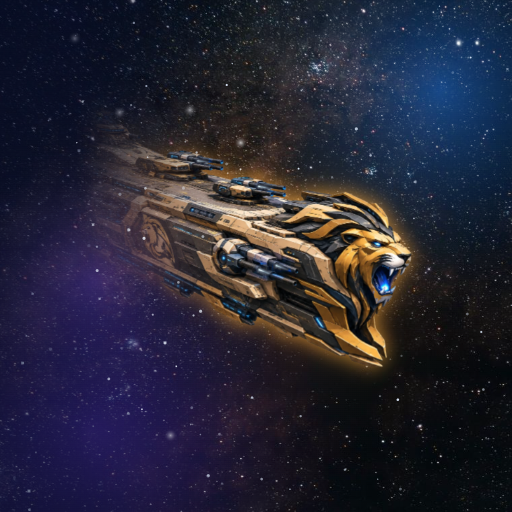
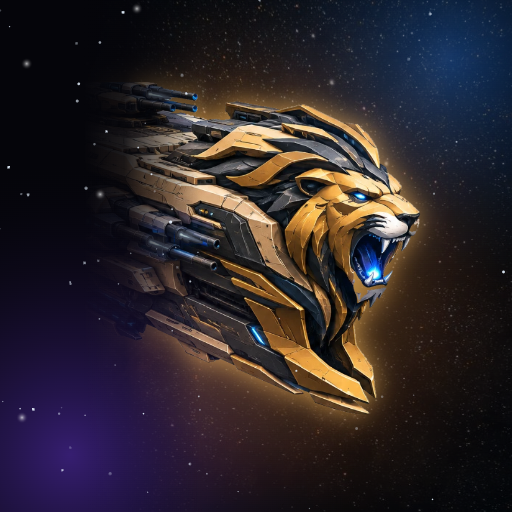
앱 아이콘: 처음 라이온하트 아이콘을 유지하고 잘린 왼쪽 몸통만 우주 안개로 덮음

diff --git a/index.html b/index.html
@@ -4,7 +4,7 @@
   <meta charset="utf-8" />
   <meta name="viewport" content="width=device-width,initial-scale=1,viewport-fit=cover" />
   <title>전투 순양함</title>
-  <link rel="icon" type="image/png" href="icon-192.png?v=4" />
+  <link rel="icon" type="image/png" href="icon-192.png?v=5" />
   <style>
     :root{--bg:#071222;--panel:#102540;--line:#315b86;--cyan:#54e5ff;--gold:#ffd668;--danger:#ff647c;--muted:#9eb4cc}*{box-sizing:border-box}body{margin:0;background:#020712;color:#eff8ff;font-family:var(--font-body);display:grid;place-items:center;min-height:100vh}button{font:inherit;color:inherit;cursor:pointer}#app{width:min(100vw,480px);min-height:100vh;background:radial-gradient(circle at 77% 7%,#203e69 0,transparent 30%),linear-gradient(#0a1b32,#06111f);overflow:hidden;position:relative}.stars{position:absolute;inset:0;opacity:.5;background-image:radial-gradient(white 1px,transparent 1.4px),radial-gradient(#77d9ff 1px,transparent 1.4px);background-size:31px 37px,67px 71px;background-position:2px 9px,25px 41px;pointer-events:none}.screen{position:relative;min-height:100vh;padding:20px 16px 28px;display:none}.screen.active{display:block}.top{display:flex;justify-content:space-between;align-items:center}.brand{font-weight:900;letter-spacing:.08em;font-size:12px;color:var(--cyan)}h1{font-size:27px;line-height:1.05;margin:9px 0 3px}h2{font-size:18px;margin:0}.sub{font-size:12px;color:var(--muted)}.resources{display:flex;gap:7px}.resource{font-size:12px;background:#122a48;border:1px solid #35608d;border-radius:20px;padding:6px 9px;display:flex;align-items:center;gap:5px}.res-icon{width:15px;height:15px;display:inline-grid;place-items:center;font-size:11px}.gold-icon{border-radius:50%;background:radial-gradient(circle at 35% 28%,#fff4b8,#ffcf42 43%,#b86d0b 76%);border:1px solid #fff3a0;box-shadow:0 0 7px #ffc733}.thorium-icon{clip-path:polygon(50% 0,86% 25%,72% 82%,50% 100%,25% 80%,13% 27%);background:linear-gradient(135deg,#d5fbff,#48e6ff 47%,#7965ff);box-shadow:0 0 8px #65ebff}.commander{width:74px;height:74px;border-radius:50%;overflow:hidden;border:3px solid #a7f7ff;box-shadow:0 0 0 3px #5066ce,0 6px 18px #0008;position:relative;background:radial-gradient(circle at 50% 25%,#ffe0bb 0 17%,transparent 18%),radial-gradient(ellipse at 50% 65%,#6997ff 0 26%,#28386f 27% 48%,transparent 49%),linear-gradient(145deg,#3b5ea3,#152346)}.commander::before{content:"";position:absolute;top:11px;left:21px;width:32px;height:31px;border-radius:48% 48% 45% 45%;background:#ffd4aa;box-shadow:0 -10px 0 -1px #293762}.commander::after{content:"★";position:absolute;right:0;bottom:0;width:23px;height:23px;display:grid;place-items:center;background:#ffca4c;color:#593209;border-radius:50%;font-size:13px;border:1px solid #fff0ac}.hero{margin:19px 0 19px;padding:20px;border:1px solid #3d6d9b;border-radius:18px;background:linear-gradient(130deg,#183c61b8,#0c1b34c4);box-shadow:0 16px 40px #0008;min-height:190px}.app-icon{float:right;width:120px;height:120px;margin:-8px -6px 7px 12px;border:4px solid #b8f8ff;border-radius:32px;overflow:hidden;background:linear-gradient(145deg,#4874dc,#172a64);box-shadow:0 0 0 4px #ffdf78,0 12px 24px #001529;position:relative;transform:rotate(5deg)}.app-icon::before{content:"✦";position:absolute;z-index:2;right:7px;top:3px;color:#fff5b1;font-size:25px;text-shadow:0 0 8px #fff}.app-icon::after{content:"♥";position:absolute;z-index:2;left:8px;bottom:4px;color:#ff8eae;font-size:20px;text-shadow:0 0 8px #ffcfdb}.app-icon img{width:220px;height:120px;max-width:none;object-fit:cover;object-position:35% 49%;transform:translateX(-49px) scale(1.06);filter:saturate(1.12) brightness(1.12)}.hero p{max-width:245px;color:#c6d8e8;font-size:13px;line-height:1.55;margin:11px 0}.primary{border:0;border-radius:11px;padding:12px 17px;font-weight:800;background:linear-gradient(90deg,#37cee9,#5b83ff);box-shadow:0 5px 18px #3dd8ff4d}.section-head{display:flex;justify-content:space-between;align-items:center;margin:20px 0 10px}.cards{display:flex;gap:10px;overflow-x:auto;padding:3px 2px 10px}.card{flex:0 0 132px;min-height:158px;border-radius:14px;border:1px solid #53769c;background:linear-gradient(150deg,#1a4165,#0c1e37);padding:12px;position:relative;overflow:hidden}.card::after{content:"";position:absolute;width:100px;height:100px;right:-34px;bottom:-38px;border:1px solid #65dfff;border-radius:50%;opacity:.35}.rarity{font-size:10px;color:var(--gold);font-weight:800}.card .icon{font-size:34px;margin:13px 0 8px}.card b{font-size:13px;display:block}.card small{color:var(--muted);font-size:10px}.nav{position:absolute;bottom:0;left:0;right:0;height:72px;border-top:1px solid #294b6d;background:#08182beF;display:flex;justify-content:space-around;padding-top:11px}.nav button{border:0;background:transparent;color:#8ba7c3;font-size:10px;display:grid;gap:3px;place-items:center}.nav button.active{color:var(--cyan)}.nav span{font-size:19px}.map{height:310px;margin-top:20px;border:1px solid #315b86;border-radius:18px;background:linear-gradient(135deg,#071e34,#142e4c);position:relative;overflow:hidden}.route{position:absolute;left:-10%;top:54%;width:120%;height:105px;border-top:2px dashed #65cfe5;border-radius:50%;transform:rotate(-9deg);opacity:.75}.planet{position:absolute;right:-38px;top:-28px;width:136px;height:136px;border-radius:50%;background:radial-gradient(circle at 35% 33%,#83f1ff,#316ab0 43%,#112747 71%);box-shadow:0 0 45px #3cbbf888}.node{position:absolute;width:34px;height:34px;border-radius:50%;display:grid;place-items:center;border:1px solid #75e7ff;background:#102c4b}.node:nth-of-type(2){top:112px;left:10%}.node:nth-of-type(3){top:145px;left:42%}.node:nth-of-type(4){top:98px;right:13%;background:#5c3851;border-color:#ff7588}.stage-card{margin-top:-22px;position:relative;background:#0d223a;border:1px solid #345d84;border-radius:14px;padding:14px;display:flex;justify-content:space-between;align-items:center}.battle-top{display:flex;justify-content:space-between;align-items:center}.back{border:1px solid #426d94;background:#102743;border-radius:9px;padding:7px 10px}.hud{display:flex;gap:9px;font-size:12px}.battlefield{height:365px;margin:15px -16px 0;background:radial-gradient(ellipse at 50% 80%,#14355b 0,transparent 52%),linear-gradient(#09182c,#07111f);position:relative;overflow:hidden;border-top:1px solid #284765}.lane{position:absolute;left:0;right:0;height:1px;background:#2f668a;opacity:.55}.lane:nth-child(1){top:28%}.lane:nth-child(2){top:51%}.lane:nth-child(3){top:74%}.slot{position:absolute;width:64px;height:64px;border:1px dashed #5584a6;border-radius:12px;display:grid;place-items:center;color:#7da6c4;font-size:25px}.slot.s1{left:12%;top:20%}.slot.s2{left:43%;top:43%}.slot.s3{left:15%;top:66%}.unit{position:absolute;width:61px;height:61px;border-radius:15px;display:grid;place-items:center;font-size:31px;background:#133c64;border:1px solid #65dfff;box-shadow:0 0 17px #3dd8ff5e}.enemy{position:absolute;right:10%;font-size:30px;filter:drop-shadow(0 0 8px #ff6a86)}.enemy.e1{top:20%}.enemy.e2{top:67%}.beam{position:absolute;height:3px;background:linear-gradient(90deg,#69f4ff,transparent);box-shadow:0 0 8px #69f4ff;transform-origin:left;opacity:0}.battle-bottom{position:absolute;bottom:0;left:0;right:0;background:#081a30eF;border-top:1px solid #2b557a;padding:10px 12px 14px}.energy{height:7px;background:#132f4c;border-radius:8px;margin-bottom:9px;overflow:hidden}.energy i{display:block;height:100%;width:72%;background:linear-gradient(90deg,#49e5ff,#9b8cff)}.hand{display:flex;gap:8px}.hand button{width:82px;min-height:92px;border-radius:11px;border:1px solid #426b90;background:#113152;text-align:left;padding:8px;font-size:10px}.hand .cost{float:right;color:var(--gold);font-size:15px}.hand .handicon{font-size:27px;display:block;margin:7px 0}.toast{position:absolute;z-index:5;left:50%;top:72px;transform:translateX(-50%) translateY(-15px);background:#102c4b;border:1px solid #58dff5;padding:10px 15px;border-radius:12px;font-size:12px;opacity:0;transition:.25s;white-space:nowrap}.toast.show{opacity:1;transform:translateX(-50%)}.collection-grid{display:grid;grid-template-columns:repeat(2,1fr);gap:11px;margin-top:19px}.collection-grid .card{min-height:172px;flex:auto}.locked{filter:grayscale(1);opacity:.52}.stats{display:flex;gap:6px;margin-top:8px}.stats span{font-size:10px;color:#b8d4ec;background:#0a1b30;padding:4px 5px;border-radius:4px}
     /* Resource-icon refinements */
@@ -145,7 +145,7 @@
   <script defer src="moderation.js?v=20261123-2"></script>
   <script defer src="chat.js?v=20261123-2"></script>
   <script defer src="cloud-sync.js?v=20261202-4"></script>
-<link rel="manifest" href="manifest.json" /><meta name="theme-color" content="#050914" /><meta name="mobile-web-app-capable" content="yes" /><link rel="apple-touch-icon" href="icon-192.png?v=4" />
+<link rel="manifest" href="manifest.json" /><meta name="theme-color" content="#050914" /><meta name="mobile-web-app-capable" content="yes" /><link rel="apple-touch-icon" href="icon-192.png?v=5" />
 </head>
 <body><div id="title-screen" role="dialog" aria-label="타이틀 화면"><div class="title-logo"><h1>전투 순양함</h1><p>BATTLECRUISER</p></div><img class="title-hero" src="star-cruiser-codex-20261007.png" alt="" /><div class="title-menu"><button type="button" id="title-start">게임 시작</button><button type="button" id="title-info" class="secondary" aria-expanded="false" aria-controls="title-info-panel">정보</button><div id="title-info-panel" class="title-info-panel" hidden><strong>TimesWitch</strong></div></div></div><main id="app"><div class="stars"></div><div id="toast" class="toast"></div>
   <section id="home" class="screen active"><div class="top"><div class="commander" title="지휘관 초상화"></div><div class="resources"><span class="resource"><i class="res-icon gold-icon"></i>골드 0</span><span class="resource"><i class="res-icon thorium-icon"></i>토륨 0</span></div></div><div class="hero"><div class="app-icon"><img src="star-cruiser-codex-20261007.png" alt="전투 순양함 앱 아이콘" /></div><b>오리온 전선이 무너지고 있습니다</b><p>함대를 소집해 외계 침공군으로부터 마지막 성계를 지키세요.</p><button class="primary" onclick="show('map')">전선으로 출격 →</button></div><div class="section-head"><h2>추천 함대</h2><span class="sub">편성 관리</span></div><div class="cards"><div class="card"><span class="rarity">★★★ EPIC</span><div class="icon">🚀</div><b>아틀라스 순양함</b><small>광역 미사일 포격</small></div><div class="card"><span class="rarity">★★ RARE</span><div class="icon">🛡</div><b>아이기스 방벽함</b><small>아군 방어막 충전</small></div><div class="card"><span class="rarity">★★★ EPIC</span><div class="icon">✈</div><b>헬리오스 항모</b><small>요격기 편대 투입</small></div></div><div class="nav"><button class="active" onclick="show('home')"><span>⌂</span>함교</button><button onclick="show('map')"><span>◎</span>성계</button><button onclick="show('collection')"><span>▣</span>함대</button><button onclick="notice('지휘관 레벨 12에 해금됩니다')"><span>◈</span>연구</button></div></section>

diff --git a/starfleet-bastion-prototype.html b/starfleet-bastion-prototype.html
@@ -4,7 +4,7 @@
   <meta charset="utf-8" />
   <meta name="viewport" content="width=device-width,initial-scale=1,viewport-fit=cover" />
   <title>전투 순양함</title>
-  <link rel="icon" type="image/png" href="icon-192.png?v=4" />
+  <link rel="icon" type="image/png" href="icon-192.png?v=5" />
   <style>
     :root{--bg:#071222;--panel:#102540;--line:#315b86;--cyan:#54e5ff;--gold:#ffd668;--danger:#ff647c;--muted:#9eb4cc}*{box-sizing:border-box}body{margin:0;background:#020712;color:#eff8ff;font-family:var(--font-body);display:grid;place-items:center;min-height:100vh}button{font:inherit;color:inherit;cursor:pointer}#app{width:min(100vw,480px);min-height:100vh;background:radial-gradient(circle at 77% 7%,#203e69 0,transparent 30%),linear-gradient(#0a1b32,#06111f);overflow:hidden;position:relative}.stars{position:absolute;inset:0;opacity:.5;background-image:radial-gradient(white 1px,transparent 1.4px),radial-gradient(#77d9ff 1px,transparent 1.4px);background-size:31px 37px,67px 71px;background-position:2px 9px,25px 41px;pointer-events:none}.screen{position:relative;min-height:100vh;padding:20px 16px 28px;display:none}.screen.active{display:block}.top{display:flex;justify-content:space-between;align-items:center}.brand{font-weight:900;letter-spacing:.08em;font-size:12px;color:var(--cyan)}h1{font-size:27px;line-height:1.05;margin:9px 0 3px}h2{font-size:18px;margin:0}.sub{font-size:12px;color:var(--muted)}.resources{display:flex;gap:7px}.resource{font-size:12px;background:#122a48;border:1px solid #35608d;border-radius:20px;padding:6px 9px;display:flex;align-items:center;gap:5px}.res-icon{width:15px;height:15px;display:inline-grid;place-items:center;font-size:11px}.gold-icon{border-radius:50%;background:radial-gradient(circle at 35% 28%,#fff4b8,#ffcf42 43%,#b86d0b 76%);border:1px solid #fff3a0;box-shadow:0 0 7px #ffc733}.thorium-icon{clip-path:polygon(50% 0,86% 25%,72% 82%,50% 100%,25% 80%,13% 27%);background:linear-gradient(135deg,#d5fbff,#48e6ff 47%,#7965ff);box-shadow:0 0 8px #65ebff}.commander{width:74px;height:74px;border-radius:50%;overflow:hidden;border:3px solid #a7f7ff;box-shadow:0 0 0 3px #5066ce,0 6px 18px #0008;position:relative;background:radial-gradient(circle at 50% 25%,#ffe0bb 0 17%,transparent 18%),radial-gradient(ellipse at 50% 65%,#6997ff 0 26%,#28386f 27% 48%,transparent 49%),linear-gradient(145deg,#3b5ea3,#152346)}.commander::before{content:"";position:absolute;top:11px;left:21px;width:32px;height:31px;border-radius:48% 48% 45% 45%;background:#ffd4aa;box-shadow:0 -10px 0 -1px #293762}.commander::after{content:"★";position:absolute;right:0;bottom:0;width:23px;height:23px;display:grid;place-items:center;background:#ffca4c;color:#593209;border-radius:50%;font-size:13px;border:1px solid #fff0ac}.hero{margin:19px 0 19px;padding:20px;border:1px solid #3d6d9b;border-radius:18px;background:linear-gradient(130deg,#183c61b8,#0c1b34c4);box-shadow:0 16px 40px #0008;min-height:190px}.app-icon{float:right;width:120px;height:120px;margin:-8px -6px 7px 12px;border:4px solid #b8f8ff;border-radius:32px;overflow:hidden;background:linear-gradient(145deg,#4874dc,#172a64);box-shadow:0 0 0 4px #ffdf78,0 12px 24px #001529;position:relative;transform:rotate(5deg)}.app-icon::before{content:"✦";position:absolute;z-index:2;right:7px;top:3px;color:#fff5b1;font-size:25px;text-shadow:0 0 8px #fff}.app-icon::after{content:"♥";position:absolute;z-index:2;left:8px;bottom:4px;color:#ff8eae;font-size:20px;text-shadow:0 0 8px #ffcfdb}.app-icon img{width:220px;height:120px;max-width:none;object-fit:cover;object-position:35% 49%;transform:translateX(-49px) scale(1.06);filter:saturate(1.12) brightness(1.12)}.hero p{max-width:245px;color:#c6d8e8;font-size:13px;line-height:1.55;margin:11px 0}.primary{border:0;border-radius:11px;padding:12px 17px;font-weight:800;background:linear-gradient(90deg,#37cee9,#5b83ff);box-shadow:0 5px 18px #3dd8ff4d}.section-head{display:flex;justify-content:space-between;align-items:center;margin:20px 0 10px}.cards{display:flex;gap:10px;overflow-x:auto;padding:3px 2px 10px}.card{flex:0 0 132px;min-height:158px;border-radius:14px;border:1px solid #53769c;background:linear-gradient(150deg,#1a4165,#0c1e37);padding:12px;position:relative;overflow:hidden}.card::after{content:"";position:absolute;width:100px;height:100px;right:-34px;bottom:-38px;border:1px solid #65dfff;border-radius:50%;opacity:.35}.rarity{font-size:10px;color:var(--gold);font-weight:800}.card .icon{font-size:34px;margin:13px 0 8px}.card b{font-size:13px;display:block}.card small{color:var(--muted);font-size:10px}.nav{position:absolute;bottom:0;left:0;right:0;height:72px;border-top:1px solid #294b6d;background:#08182beF;display:flex;justify-content:space-around;padding-top:11px}.nav button{border:0;background:transparent;color:#8ba7c3;font-size:10px;display:grid;gap:3px;place-items:center}.nav button.active{color:var(--cyan)}.nav span{font-size:19px}.map{height:310px;margin-top:20px;border:1px solid #315b86;border-radius:18px;background:linear-gradient(135deg,#071e34,#142e4c);position:relative;overflow:hidden}.route{position:absolute;left:-10%;top:54%;width:120%;height:105px;border-top:2px dashed #65cfe5;border-radius:50%;transform:rotate(-9deg);opacity:.75}.planet{position:absolute;right:-38px;top:-28px;width:136px;height:136px;border-radius:50%;background:radial-gradient(circle at 35% 33%,#83f1ff,#316ab0 43%,#112747 71%);box-shadow:0 0 45px #3cbbf888}.node{position:absolute;width:34px;height:34px;border-radius:50%;display:grid;place-items:center;border:1px solid #75e7ff;background:#102c4b}.node:nth-of-type(2){top:112px;left:10%}.node:nth-of-type(3){top:145px;left:42%}.node:nth-of-type(4){top:98px;right:13%;background:#5c3851;border-color:#ff7588}.stage-card{margin-top:-22px;position:relative;background:#0d223a;border:1px solid #345d84;border-radius:14px;padding:14px;display:flex;justify-content:space-between;align-items:center}.battle-top{display:flex;justify-content:space-between;align-items:center}.back{border:1px solid #426d94;background:#102743;border-radius:9px;padding:7px 10px}.hud{display:flex;gap:9px;font-size:12px}.battlefield{height:365px;margin:15px -16px 0;background:radial-gradient(ellipse at 50% 80%,#14355b 0,transparent 52%),linear-gradient(#09182c,#07111f);position:relative;overflow:hidden;border-top:1px solid #284765}.lane{position:absolute;left:0;right:0;height:1px;background:#2f668a;opacity:.55}.lane:nth-child(1){top:28%}.lane:nth-child(2){top:51%}.lane:nth-child(3){top:74%}.slot{position:absolute;width:64px;height:64px;border:1px dashed #5584a6;border-radius:12px;display:grid;place-items:center;color:#7da6c4;font-size:25px}.slot.s1{left:12%;top:20%}.slot.s2{left:43%;top:43%}.slot.s3{left:15%;top:66%}.unit{position:absolute;width:61px;height:61px;border-radius:15px;display:grid;place-items:center;font-size:31px;background:#133c64;border:1px solid #65dfff;box-shadow:0 0 17px #3dd8ff5e}.enemy{position:absolute;right:10%;font-size:30px;filter:drop-shadow(0 0 8px #ff6a86)}.enemy.e1{top:20%}.enemy.e2{top:67%}.beam{position:absolute;height:3px;background:linear-gradient(90deg,#69f4ff,transparent);box-shadow:0 0 8px #69f4ff;transform-origin:left;opacity:0}.battle-bottom{position:absolute;bottom:0;left:0;right:0;background:#081a30eF;border-top:1px solid #2b557a;padding:10px 12px 14px}.energy{height:7px;background:#132f4c;border-radius:8px;margin-bottom:9px;overflow:hidden}.energy i{display:block;height:100%;width:72%;background:linear-gradient(90deg,#49e5ff,#9b8cff)}.hand{display:flex;gap:8px}.hand button{width:82px;min-height:92px;border-radius:11px;border:1px solid #426b90;background:#113152;text-align:left;padding:8px;font-size:10px}.hand .cost{float:right;color:var(--gold);font-size:15px}.hand .handicon{font-size:27px;display:block;margin:7px 0}.toast{position:absolute;z-index:5;left:50%;top:72px;transform:translateX(-50%) translateY(-15px);background:#102c4b;border:1px solid #58dff5;padding:10px 15px;border-radius:12px;font-size:12px;opacity:0;transition:.25s;white-space:nowrap}.toast.show{opacity:1;transform:translateX(-50%)}.collection-grid{display:grid;grid-template-columns:repeat(2,1fr);gap:11px;margin-top:19px}.collection-grid .card{min-height:172px;flex:auto}.locked{filter:grayscale(1);opacity:.52}.stats{display:flex;gap:6px;margin-top:8px}.stats span{font-size:10px;color:#b8d4ec;background:#0a1b30;padding:4px 5px;border-radius:4px}
     /* Resource-icon refinements */

diff --git a/sw.js b/sw.js
@@ -1,7 +1,7 @@
 // 전투 순양함 서비스 워커 — 네트워크 우선(항상 최신 파일), 실패 시 캐시로 대체.
 // 파일을 크게 바꿨는데 옛 화면이 보이면 아래 버전 숫자를 올리세요.
-const CACHE = 'battlecruiser-v7';
-const CORE = ['./', 'index.html', 'manifest.json', 'icon-192.png?v=4', 'icon-512.png?v=4'];
+const CACHE = 'battlecruiser-v8';
+const CORE = ['./', 'index.html', 'manifest.json', 'icon-192.png?v=5', 'icon-512.png?v=5'];
 
 self.addEventListener('install', event => {
   event.waitUntil(
